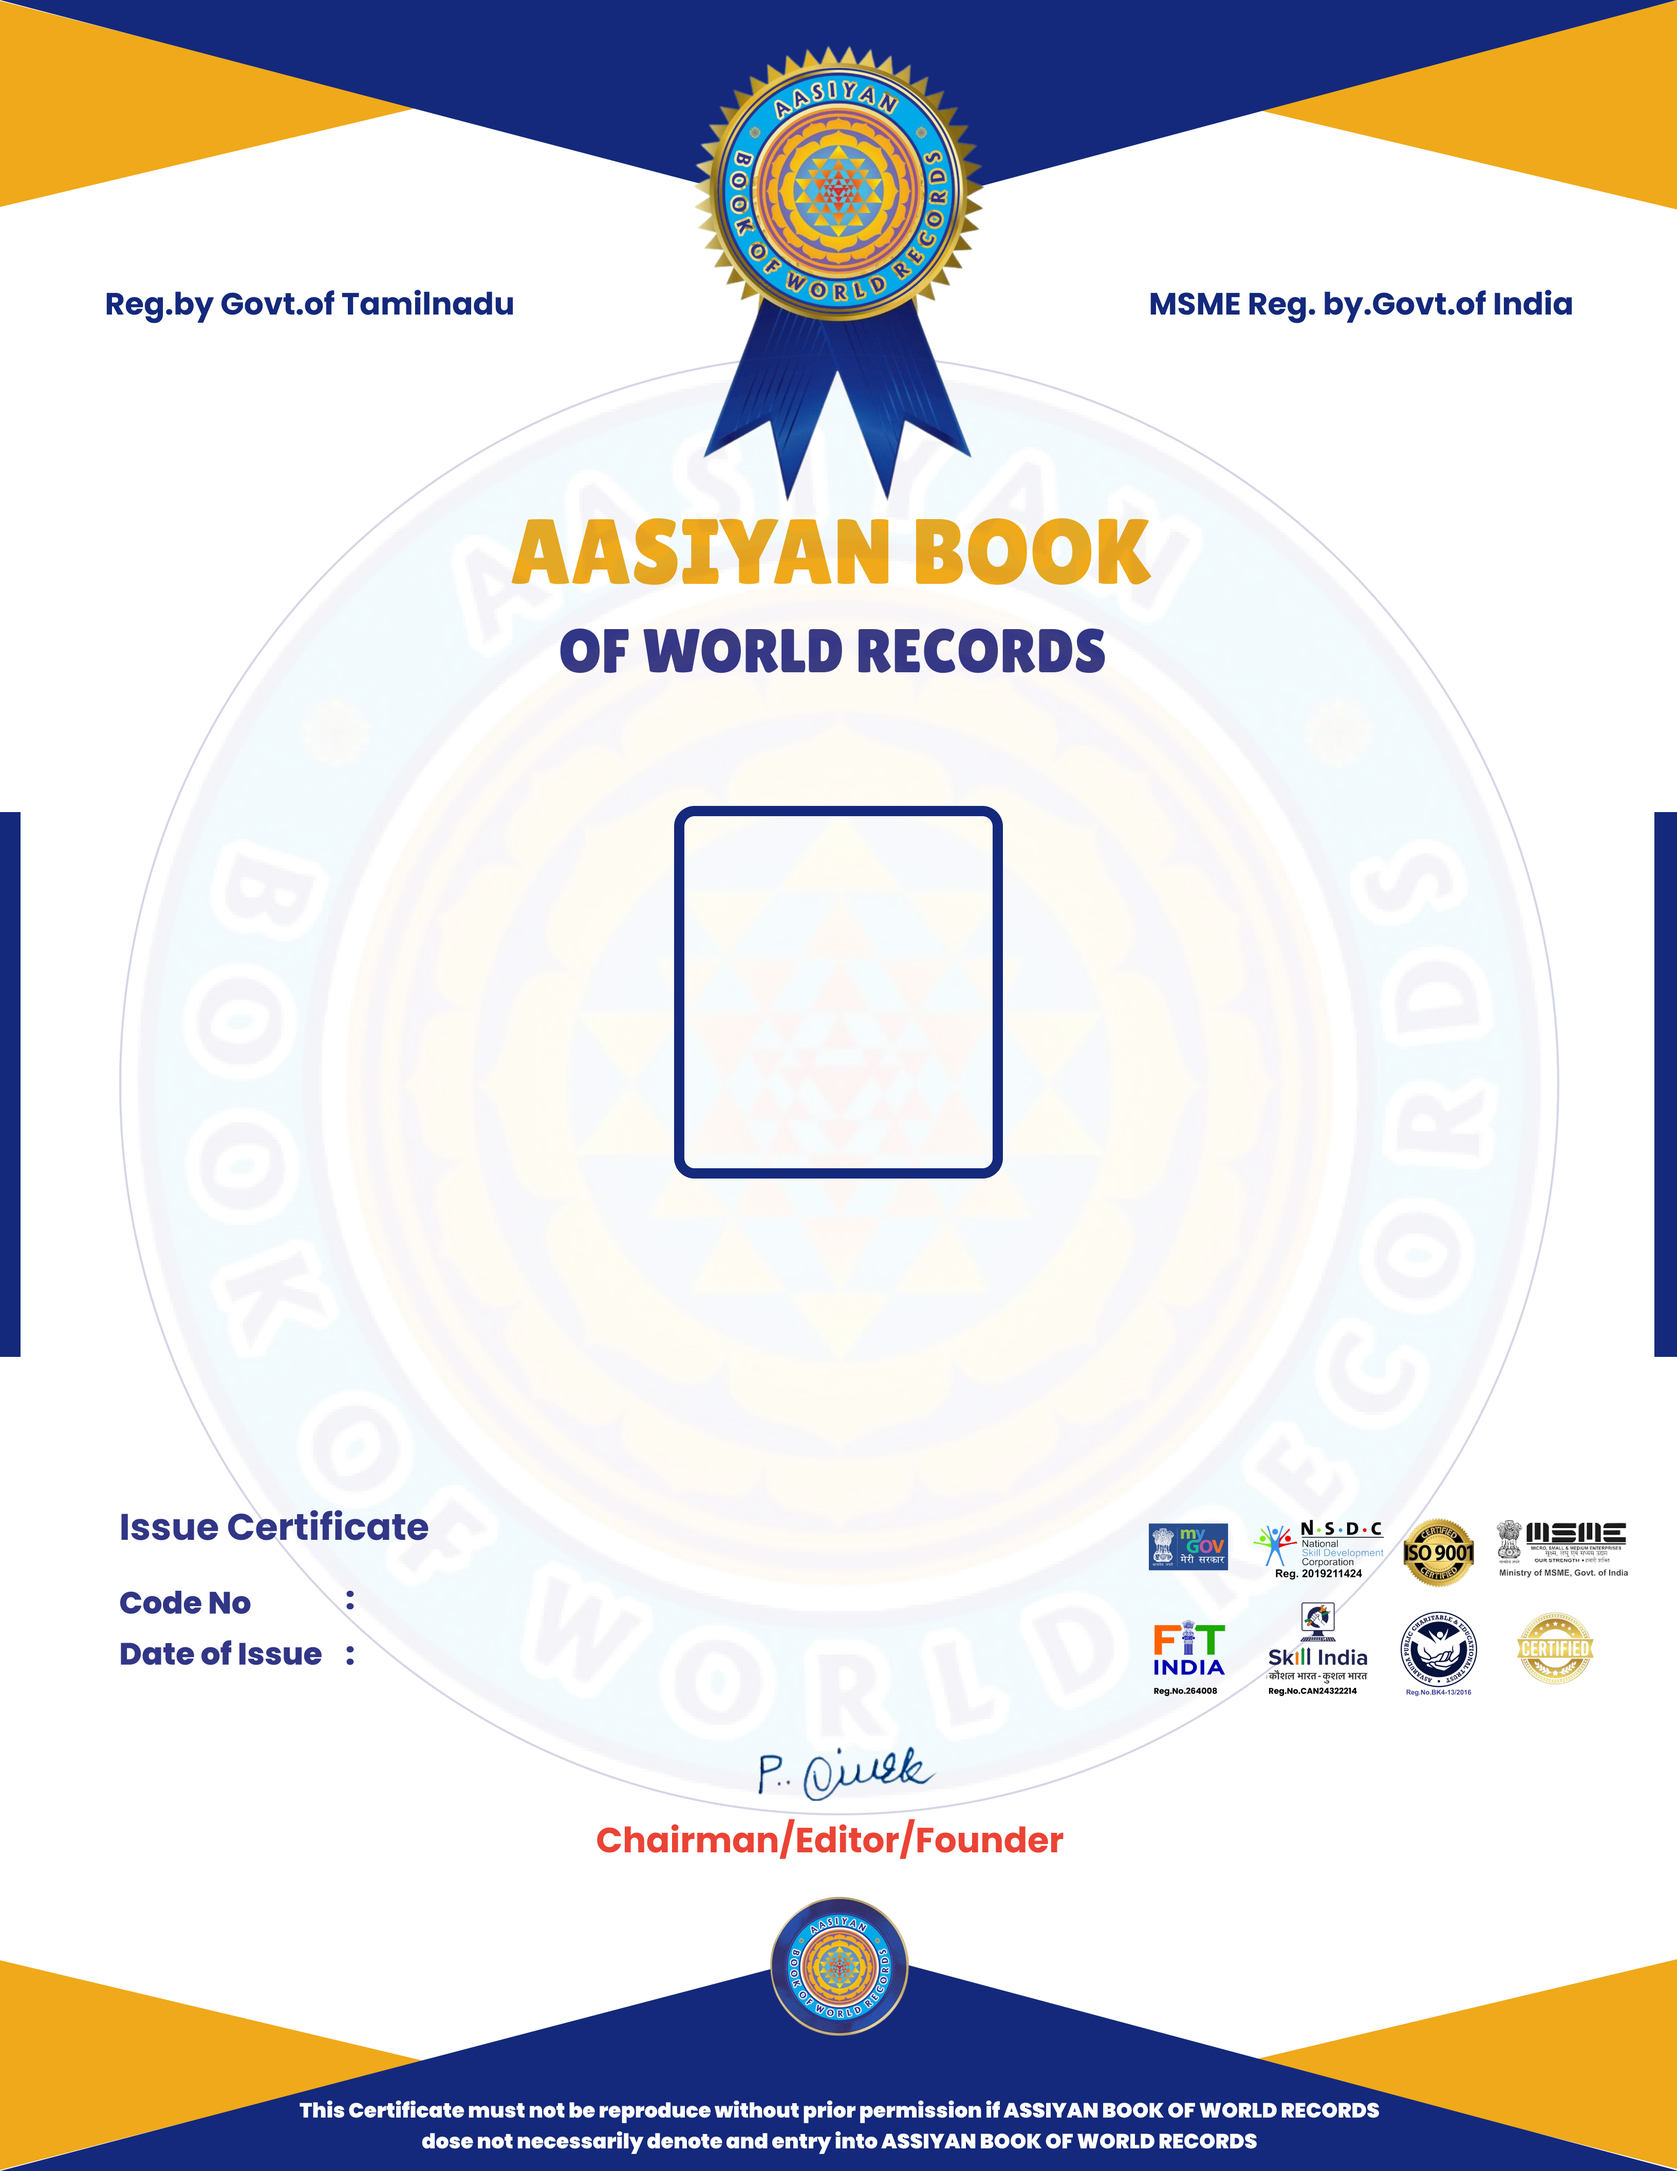
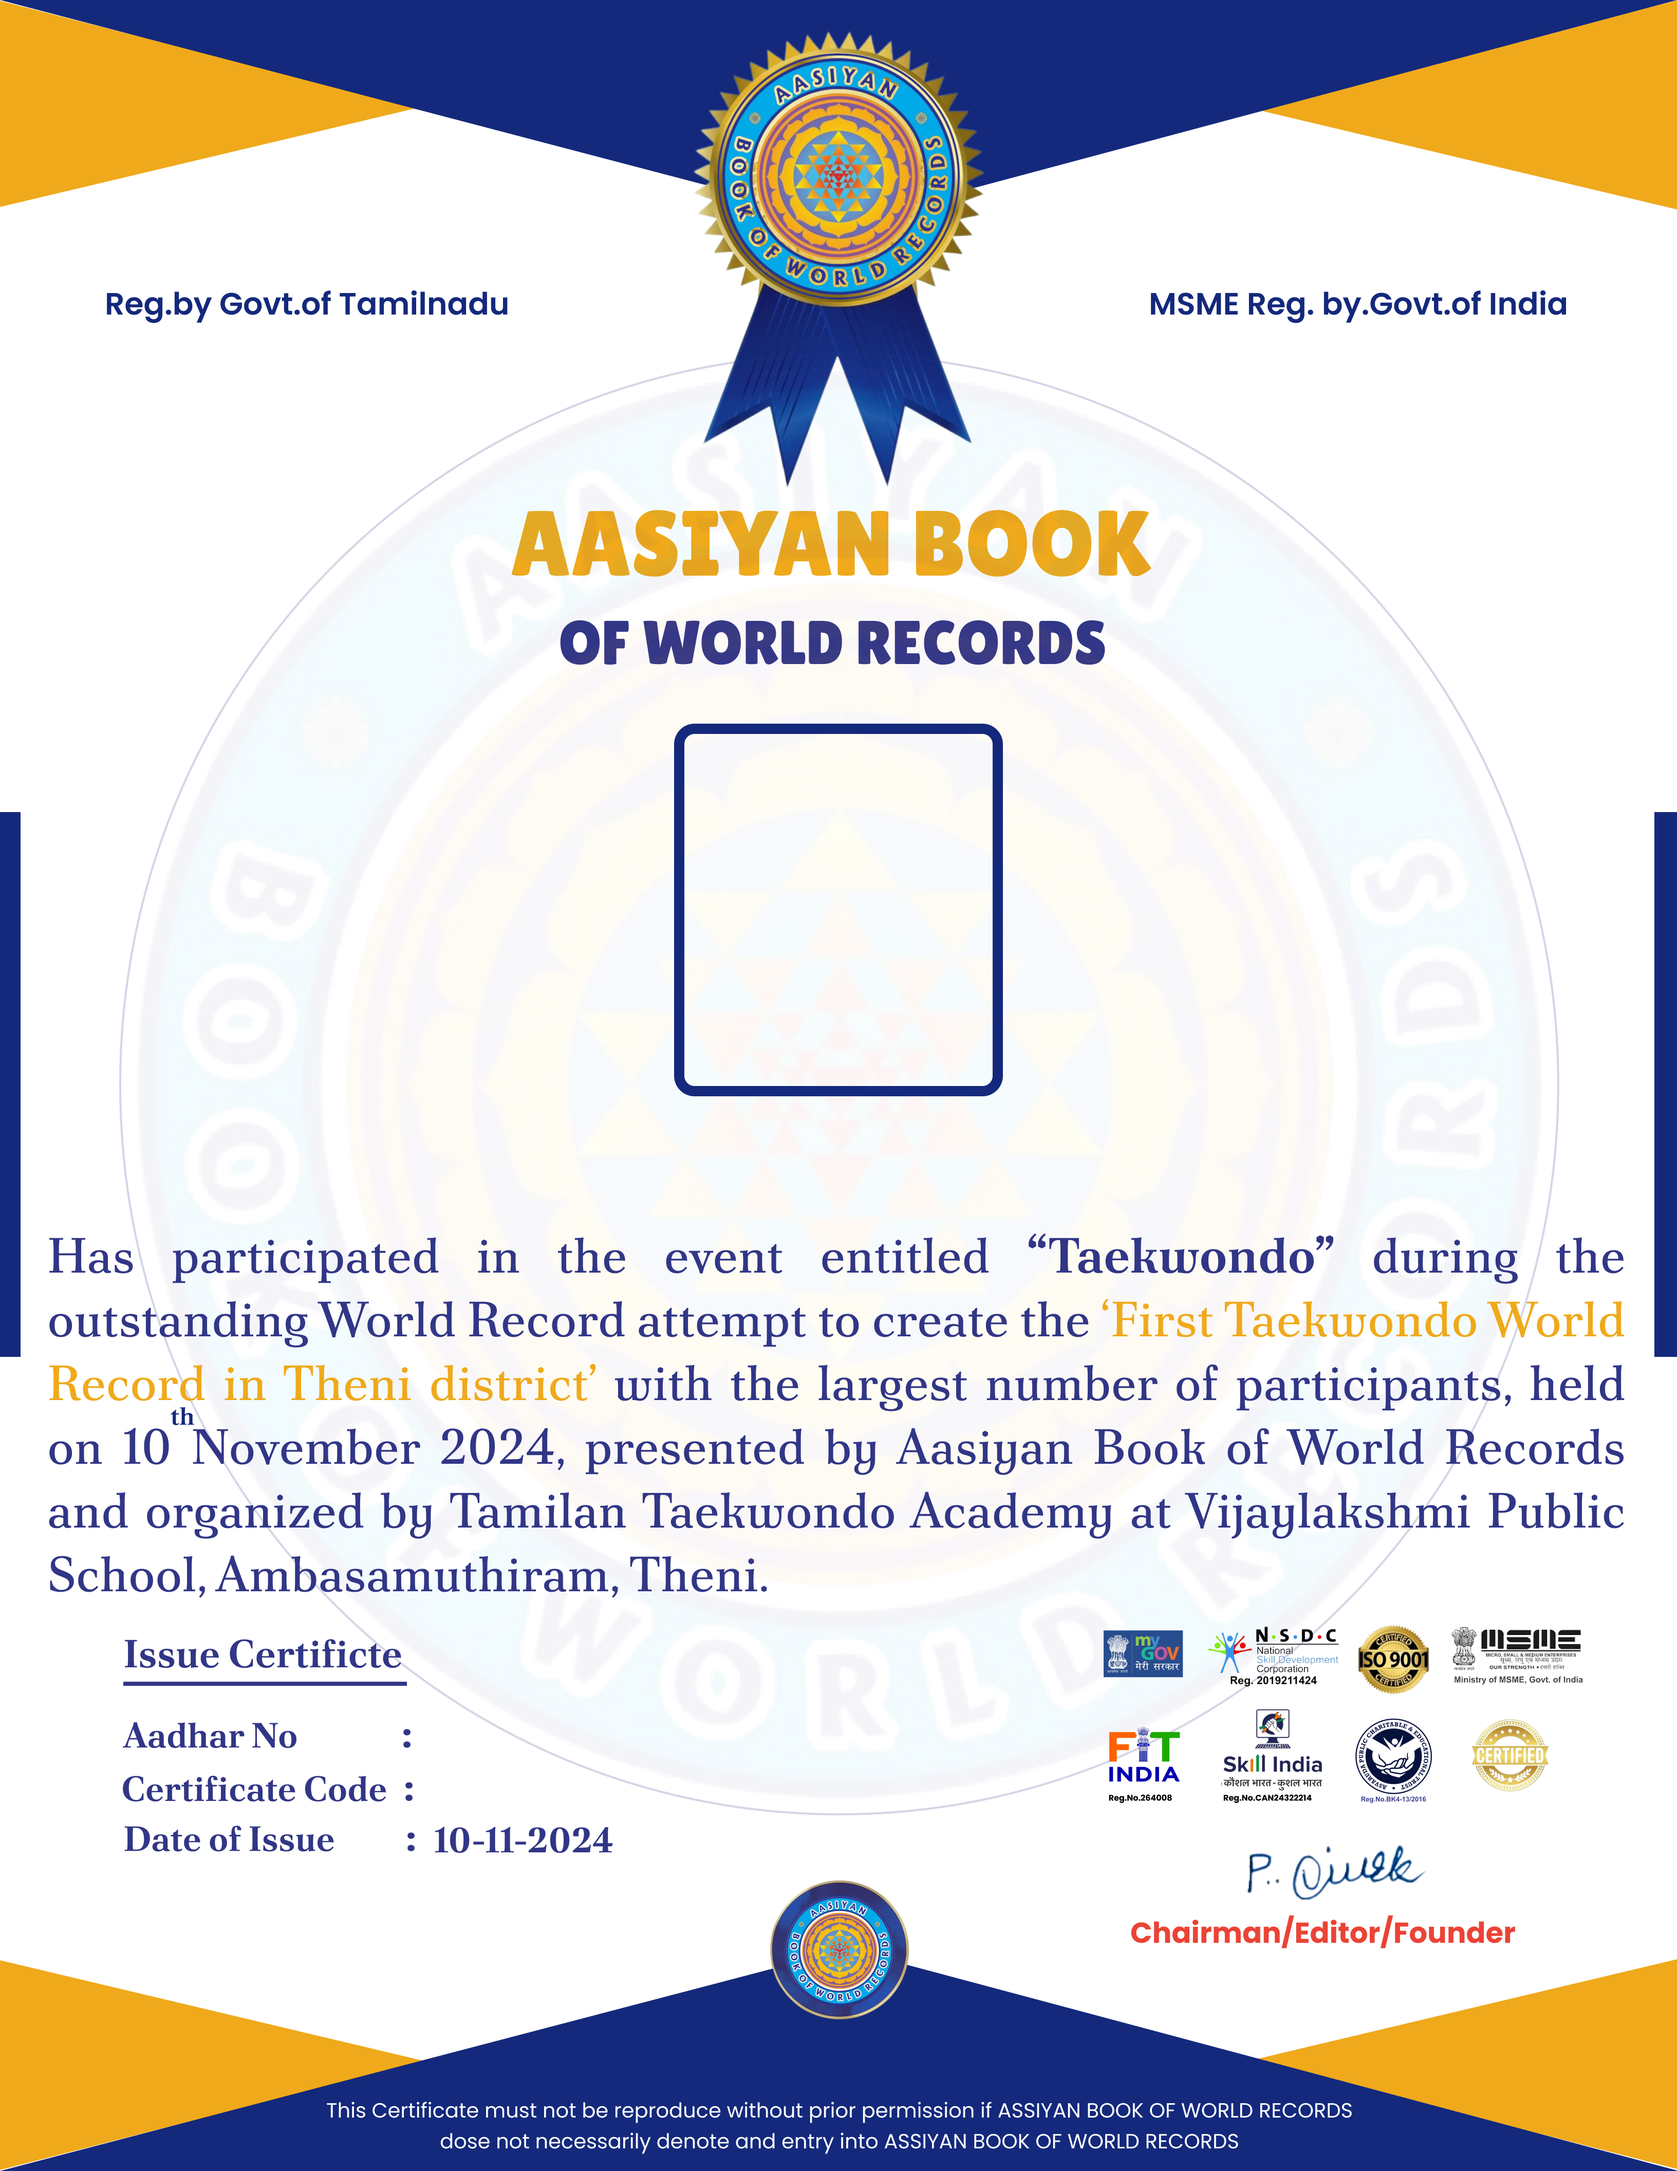
new certificate updated

diff --git a/src/components/CertificateGenerator.js b/src/components/CertificateGenerator.js
@@ -12,7 +12,6 @@ const CertificateGenerator = () => {
     certificateCode: "",
     dateOfIssue: "",
   });
-
   const certificateRef = useRef();
 
   const handleChange = (e) => {
@@ -76,6 +75,7 @@ const CertificateGenerator = () => {
 
   return (
     <div className="container">
+      <h1>Aasiyan Book of World Records</h1>
       <form className="form">
         <label className="label">
           Name:
@@ -97,7 +97,7 @@ const CertificateGenerator = () => {
           />
         </label>
         <label className="label">
-          Field:
+          Aadhar No
           <input
             className="input"
             type="text"
@@ -116,7 +116,7 @@ const CertificateGenerator = () => {
             onChange={handleChange}
           />
         </label>
-        <label className="label">
+        {/* <label className="label">
           Date of Issue:
           <input
             className="input"
@@ -125,7 +125,7 @@ const CertificateGenerator = () => {
             value={details.dateOfIssue}
             onChange={handleChange}
           />
-        </label>
+        </label> */}
       </form>
       <div ref={certificateRef} className="certificate">
         <img
@@ -145,13 +145,15 @@ const CertificateGenerator = () => {
           </div>
         </div>
         <div className="certificate-content">
-          <div className="certificate-text-name">{details.name}</div>
+          <div className="certificate-text-name">M/S. {details.name}</div>
         </div>
         <div className="certificate-content">
           <div className="certificate-text-field">{details.field}</div>
         </div>
         <div className="certificate-content">
-          <div className="certificate-text-code">{details.certificateCode}</div>
+          <div className="certificate-text-code">
+            AABWR{details.certificateCode}
+          </div>
         </div>
         <div className="certificate-content">
           <div className="certificate-text-date">
@@ -165,6 +167,9 @@ const CertificateGenerator = () => {
       <button className="button" onClick={handlePrint}>
         Print
       </button>
+      <div>
+        {/* <button onClick={() => (window.location.href = "/")}>Logout</button> */}
+      </div>
     </div>
   );
 };

diff --git a/src/components/CertificateGenerator.css b/src/components/CertificateGenerator.css
@@ -1,5 +1,7 @@
 @import url("https://fonts.googleapis.com/css2?family=Ubuntu:ital,wght@0,300;0,400;0,500;0,700;1,300;1,400;1,500;1,700&display=swap");
 @import url("https://fonts.googleapis.com/css2?family=Poppins:ital,wght@0,100;0,200;0,300;0,400;0,500;0,600;0,700;0,800;0,900;1,100;1,200;1,300;1,400;1,500;1,600;1,700;1,800;1,900&display=swap");
+@import url("https://fonts.googleapis.com/css2?family=Poltawski+Nowy:ital,wght@0,400..700;1,400..700&family=Poppins:ital,wght@0,100;0,200;0,300;0,400;0,500;0,600;0,700;0,800;0,900;1,100;1,200;1,300;1,400;1,500;1,600;1,700;1,800;1,900&display=swap");
+
 .container {
   display: flex;
   flex-direction: column;
@@ -14,6 +16,7 @@
   flex-direction: column;
   width: 300px;
   margin-bottom: 20px;
+  margin-top: 30px;
 }
 
 .label {
@@ -59,7 +62,7 @@
 .certificate-photo {
   width: 146px;
   height: 180px;
-  margin-top: 225px;
+  margin-top: 180px;
   margin-bottom: 2px;
   border-radius: 5px;
 }
@@ -79,25 +82,28 @@
   background-color: #45a049;
 }
 .certificate-text-name {
-  font-size: 43px;
-  margin-top: 440px;
+  font-size: 30px;
+  margin-top: 387px;
   font-weight: bold;
-  color: orangered;
-  font-family: "Ubuntu", sans-serif;
-  font-weight: 1000;
+  color: black;
+  font-family: "Poltawski Nowy", sans-serif;
+  font-weight: 600;
   font-style: normal;
 }
 .certificate-text-field {
+  font-family: "Poltawski Nowy", sans-serif;
   font-weight: bold;
-  font-size: 28px;
-  margin-top: 500px;
+  font-size: 18px;
+  color: #14297c;
+  margin-top: 685px;
+  margin-right: 261px;
 }
 .certificate-text-code {
-  font-size: 16px;
-  margin-top: 615px;
-  margin-left: -350px;
+  font-size: 18px;
+  margin-top: 713px;
+  margin-right: 283px;
   color: #14297c;
-  font-family: "Poppins", sans-serif;
+  font-family: "Poltawski Nowy", sans-serif;
   font-weight: 700;
 }
 .certificate-text-date {
@@ -105,6 +111,6 @@
   margin-top: 644px;
   margin-left: -355px;
   color: #14297c;
-  font-family: "Poppins", sans-serif;
+  font-family: "Poltawski Nowy", sans-serif;
   font-weight: 700;
 }

diff --git a/src/components/Authentication.js b/src/components/Authentication.js
@@ -1,0 +1,51 @@
+import React, { useState } from "react";
+import { useNavigate } from "react-router-dom";
+import "./Authentication.css";
+function Authentication() {
+  const [username, setUsername] = useState("");
+  const [password, setPassword] = useState("");
+  const navigate = useNavigate();
+
+  const defaultUsername = "admin";
+  const defaultPassword = "password";
+
+  const handleLogin = (e) => {
+    e.preventDefault();
+    if (username === defaultUsername && password === defaultPassword) {
+      navigate("/certificate");
+    } else {
+      alert("Incorrect username or password");
+    }
+  };
+
+  return (
+    <form onSubmit={handleLogin}>
+      <h2>Login</h2>
+      <div>
+        <label>
+          Username:
+          <input
+            type="text"
+            value={username}
+            onChange={(e) => setUsername(e.target.value)}
+            required
+          />
+        </label>
+      </div>
+      <div>
+        <label>
+          Password:
+          <input
+            type="password"
+            value={password}
+            onChange={(e) => setPassword(e.target.value)}
+            required
+          />
+        </label>
+      </div>
+      <button type="submit">Login</button>
+    </form>
+  );
+}
+
+export default Authentication;

diff --git a/public/index.html b/public/index.html
@@ -9,6 +9,7 @@
       name="description"
       content="Web site created using create-react-app"
     />
+    <link rel="icon" href="../src/components/assets/icon.png">
     <!--
       manifest.json provides metadata used when your web app is installed on a
       user's mobile device or desktop. See https://developers.google.com/web/fundamentals/web-app-manifest/
@@ -22,7 +23,7 @@
       work correctly both with client-side routing and a non-root public URL.
       Learn how to configure a non-root public URL by running `npm run build`.
     -->
-    <title>React App</title>
+    <title>Aasiyan Certificate-generator</title>
   </head>
   <body>
     <noscript>You need to enable JavaScript to run this app.</noscript>

diff --git a/src/App.js b/src/App.js
@@ -1,10 +1,19 @@
 import "./App.css";
 import CertificateGenerator from "./components/CertificateGenerator";
-
+import Authentication from "./components/Authentication";
+import { BrowserRouter as Router, Route, Routes } from "react-router-dom";
 function App() {
   return (
     <div className="App">
-      <CertificateGenerator />
+      {/* <CertificateGenerator /> */}
+      <Router>
+        <div className="App">
+          <Routes>
+            <Route path="/" element={<Authentication />} />
+            <Route path="/certificate" element={<CertificateGenerator />} />
+          </Routes>
+        </div>
+      </Router>
     </div>
   );
 }

diff --git a/src/components/Authentication.css b/src/components/Authentication.css
@@ -1,0 +1,24 @@
+.App {
+    text-align: center;
+  }
+  
+  form {
+    display: inline-block;
+    text-align: left;
+    margin-top: 100px;
+  }
+  
+  label {
+    display: block;
+    margin-bottom: 8px;
+  }
+  
+  input {
+    display: block;
+    margin-bottom: 16px;
+  }
+  
+  button {
+    padding: 8px 16px;
+  }
+  
